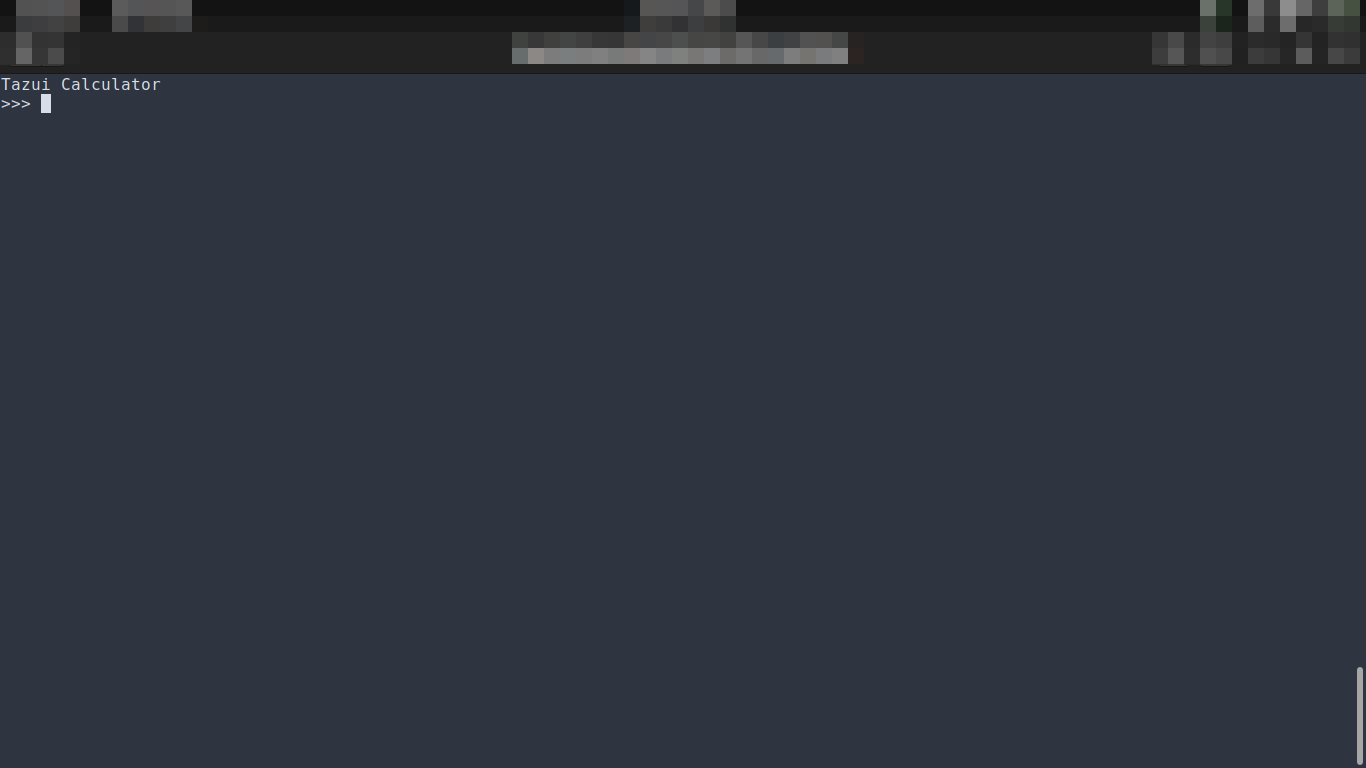
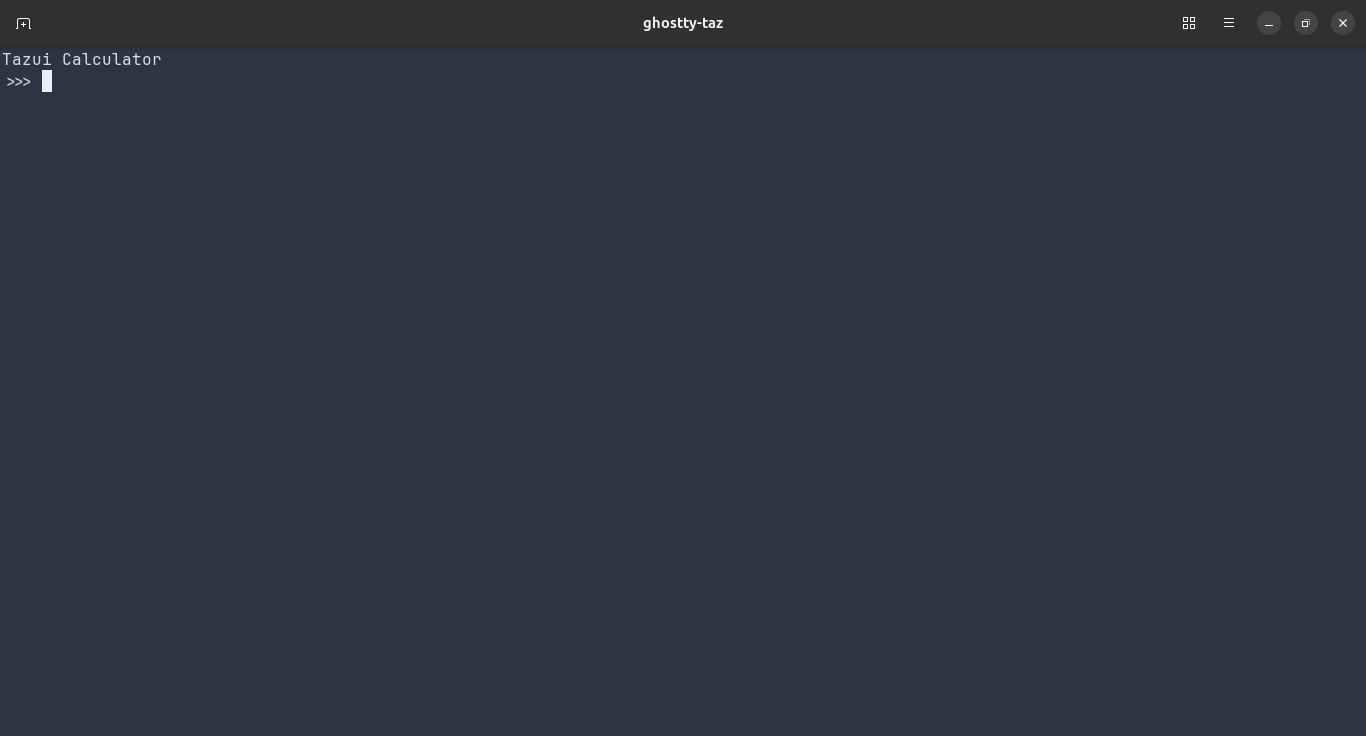
Update README with new feature

Changed region(s): [[0.0, 0.0, 1.0, 0.1562], [0.9839, 0.875, 1.0, 1.0]]

diff --git a/README.md b/README.md
@@ -36,6 +36,6 @@ Moreover, we can define variable with an expression. Tazui evaluate it and put r
 
 ![](doc/tazui-use-variables.png)
 
-We can also define reusable expression. Tazui evaluate it and put it name and current result in variables. Then we can modify variables and the expression is updated automaticaly.
+We can also define reusable function. Tazui parse it and store its representation. Then we can call this function in expression, variable or other function.
 
-![](doc/tazui-use-expressions.png)
+![](doc/tazui-use-functions.png)
